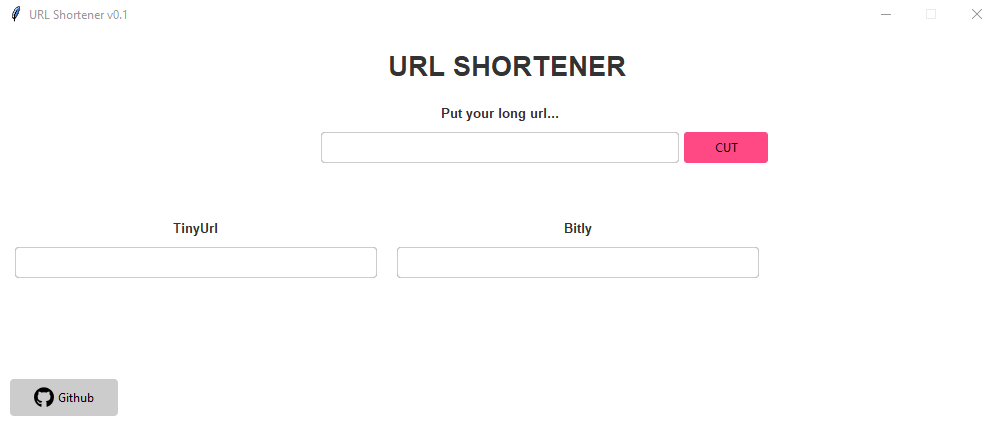
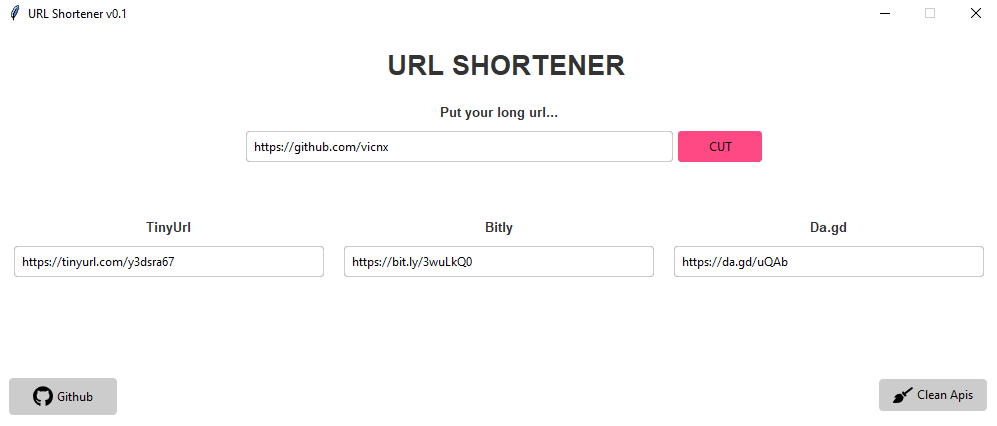
Add new shortener and some errors control Add clean apis button.

diff --git a/urlShortener.py b/urlShortener.py
@@ -82,9 +82,9 @@ class App():
     #Input
     self.urlInput = ttk.Entry(self.topFrame)
     self.urlInput.insert(0, "")
-    self.urlInput.grid(row=2, column=1, pady=0, padx=(80,0), columnspan=1,sticky="we")
+    self.urlInput.grid(row=2, column=1, pady=0, padx=(0,0), columnspan=1,sticky="we")
     #button
-    accentbutton = ttk.Button(self.topFrame, text="CUT", style="AccentButton", command=lambda: self.shortUrls())
+    accentbutton = ttk.Button(self.topFrame, text="CUT", style="AccentButton", command=lambda: self.shortUrls(), cursor="hand2")
     accentbutton.grid(row=2, column=2, padx=5, pady=0, sticky="nsew")
 
     #Bottom Frame
@@ -98,38 +98,57 @@ class App():
     labelTinyUrl = ttk.Label(self.bottomFrame, text="TinyUrl",font="gotham 10  bold",foreground="#333333")
     labelTinyUrl.grid(row=0, column=0, pady=10, padx=(0,0) ,columnspan=1)
     self.tinyurlShorted = StringVar()
-    self.urltinyurl = ttk.Entry(self.bottomFrame, state="readonly",textvariable=self.tinyurlShorted)
+    self.urltinyurl = ttk.Entry(self.bottomFrame, state="readonly",textvariable=self.tinyurlShorted, cursor="hand2")
     self.urltinyurl.grid(row=1, column=0, pady=0, padx=(10,10), columnspan=1,sticky="nsew")
 
     #Bitly label & Input
     labelBitly = ttk.Label(self.bottomFrame, text="Bitly",font="gotham 10  bold",foreground="#333333")
     labelBitly.grid(row=0, column=1, pady=10, padx=(0,0) ,columnspan=1)
     self.bitlyurlShorted = StringVar()
-    self.urlbitly = ttk.Entry(self.bottomFrame, state="readonly",textvariable=self.bitlyurlShorted)
+    self.urlbitly = ttk.Entry(self.bottomFrame, state="readonly",textvariable=self.bitlyurlShorted, cursor="hand2")
     self.urlbitly.grid(row=1, column=1, pady=0, padx=(10,10), columnspan=1,sticky="nsew")
 
     #Bitly label & Input
-    # labelBitly = ttk.Label(self.bottomFrame, text="Bitly",font="gotham 10  bold",foreground="#333333")
-    # labelBitly.grid(row=0, column=2, pady=10, padx=(0,0) ,columnspan=1)
-    # self.bitlyurlShorted = StringVar()
-    # self.urlbitly = ttk.Entry(self.bottomFrame, state="readonly",textvariable=self.bitlyurlShorted)
-    # self.urlbitly.grid(row=1, column=2, pady=0, padx=(10,10), columnspan=1,sticky="nsew")
+    owly = ttk.Label(self.bottomFrame, text="Da.gd",font="gotham 10  bold",foreground="#333333")
+    owly.grid(row=0, column=2, pady=10, padx=(0,0) ,columnspan=1)
+    self.dagdShorted = StringVar()
+    self.urldagd = ttk.Entry(self.bottomFrame, state="readonly",textvariable=self.dagdShorted, cursor="hand2")
+    self.urldagd.grid(row=1, column=2, pady=0, padx=(10,10), columnspan=1,sticky="nsew")
 
     #Footer
     self.github = icon_to_image("github", fill="black", scale_to_width=20)  
-    self.github_button = ttk.Button(master=self.root,text="Github", command=lambda:self.open_github(), image = self.github, compound = 'left')
+    self.github_button = ttk.Button(master=self.root,text="Github", command=lambda:self.open_github(), image = self.github, compound = 'left', cursor="hand2")
     self.github_button.grid(row=4, column=1, pady=0, padx=10, sticky="w")
+    self.clean = icon_to_image("broom", fill="black", scale_to_width=20)  
+    self.clean_button = ttk.Button(master=self.root,text="Clean Apis", command=lambda:self.clean_apis(), image = self.clean, compound = 'left', cursor="hand2")
+    self.clean_button.place(x=880,y=350)
 
+  def clean_apis(self):
+    if os.path.exists(resource_path('config.ini')):
+       os.remove(resource_path('config.ini'))
+    messagebox.showinfo(message="Apis cleaned successfully, please restart the app", title="Info")
+    self.root.destroy()
+    
   def open_github(self):
       webbrowser.open('https://www.github.com/vicnx', new=0, autoraise=True)
 
   def shortUrls(self):
-    tiny = pyshorteners.Shortener()
-    short_url_tiny = tiny.tinyurl.short(self.urlInput.get())
-    self.tinyurlShorted.set(short_url_tiny)
-    bitly = pyshorteners.Shortener(api_key=self.bitlyAPI)
-    short_url_bitly = bitly.bitly.short(self.urlInput.get())
-    self.bitlyurlShorted.set(short_url_bitly)
+    long_url = self.urlInput.get()
+    short_noapi = pyshorteners.Shortener()
+    try:
+      self.tinyurlShorted.set(short_noapi.tinyurl.short(long_url))
+    except Exception as e:
+      messagebox.showerror(message="Tinyurl error.", title="Error")
+
+    try :
+      bitly = pyshorteners.Shortener(api_key=self.bitlyAPI)
+      self.bitlyurlShorted.set(bitly.bitly.short(long_url))
+    except Exception as e:
+      messagebox.showerror(message="Bit.ly error, clean the api and try again please.", title="Error")
+    try:
+      self.dagdShorted.set(short_noapi.dagd.short(long_url))
+    except Exception as e:
+      messagebox.showerror(message="Da.gd error.", title="Error")
 
   def start(self):
     app.create_window()
